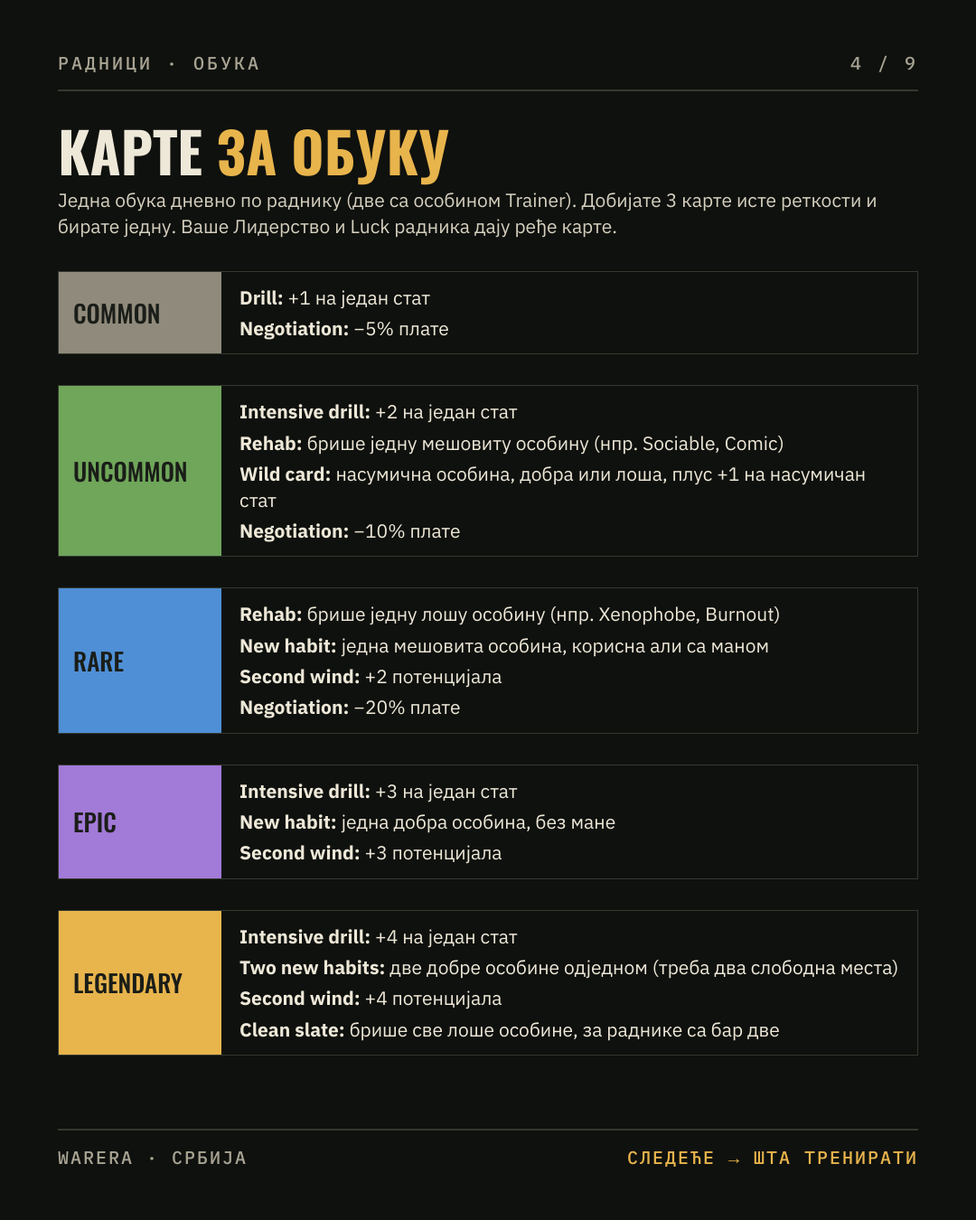
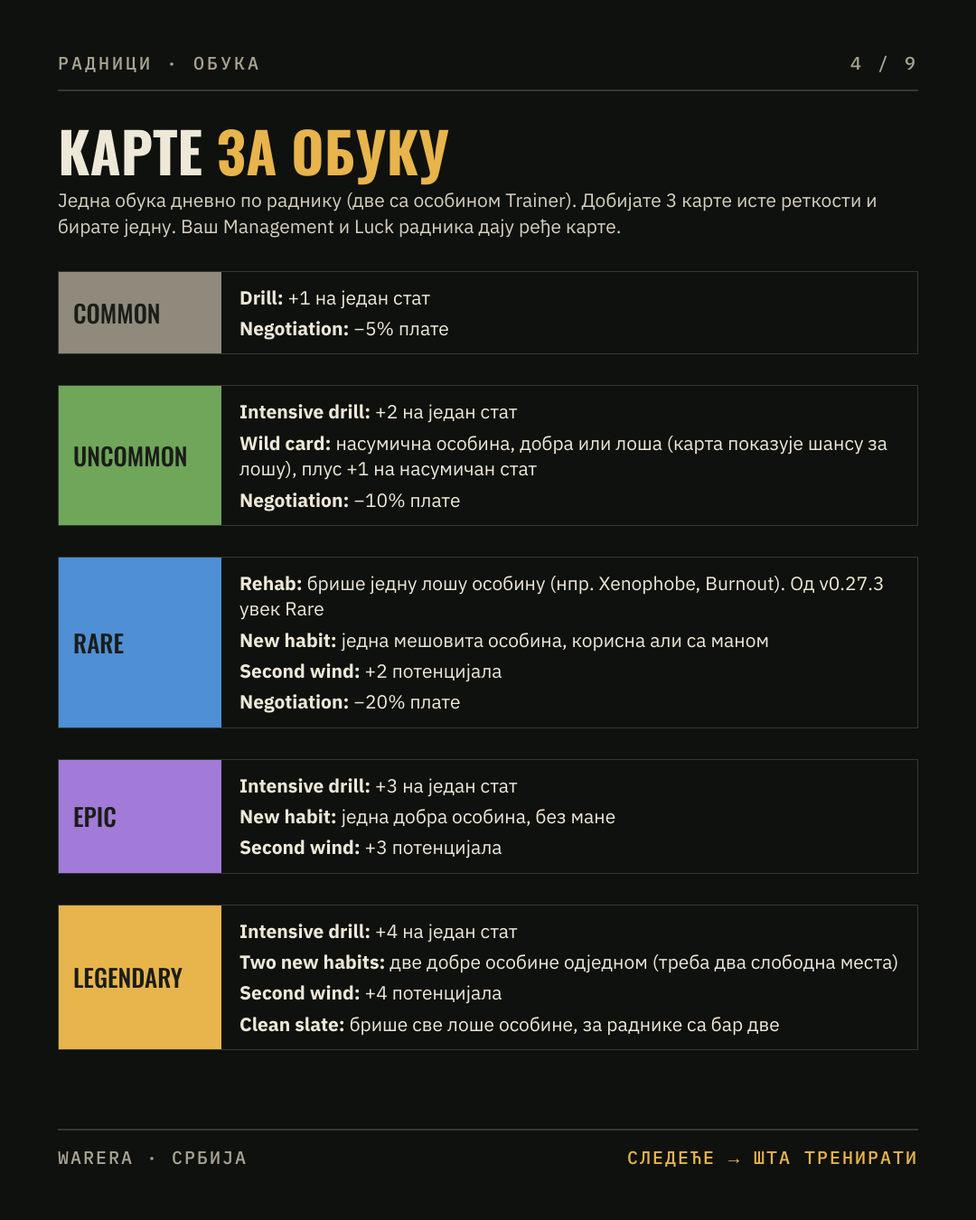
Zakrpa v0.27.3: Liderstvo u Menadžmentu, otkaz bez kazne, 12h za novog radnika
Claude-Session: https://claude.ai/code/session_01L1BRfphHGAoYFinPfNgA1E

diff --git a/clanci/radnici-v027.md b/clanci/radnici-v027.md
@@ -2,14 +2,14 @@
 
 *Прилагођени превод водича „Piraterers Employee Training Guide 2.0” играча **Piraterer**. Аутор је дозволио превод, а оригинал ажурира ако се нешто промени, па га погледајте и тамо:* [**оригинални чланак →**](https://app.warera.io/article/6ade935e2284d0115d0de773)
 
-> Ово је лично мишљење аутора, засновано на тест-серверу и белешкама за закрпу. Нека вам послужи као полазна тачка, а свој стил игре наћи ћете сами.
+> **Ажурирано за закрпу v0.27.3.** Ово је лично мишљење аутора, засновано на тест-серверу и белешкама за закрпу. Нека вам послужи као полазна тачка, а свој стил игре наћи ћете сами.
 
 ---
 
 ## Укратко, ако немате времена
 
 • Запошљавајте **младе раднике са високим потенцијалом** или добрим особинама  
-• На почетку улажите у **Енергију**, па у **Лидерство** (откључава се на нивоу 10). Менаџмент тек кад вам радници ојачају  
+• На почетку улажите у **Енергију**, па у **Менаџмент** (од v0.27.3 у њему је и бивше Лидерство)  
 • Плата се плаћа **сваког сата**: ако на рачуну нема пара за цео сат, тог сата нико не ради  
 • Плату плаћате само за Production стат (почетни + истренирани), **не за бонусе од особина**. Зато су особине које дају производњу најисплативије  
 • При обуци бирајте: **добра особина > Production > Second wind > смањење плате / Luck > Responsibility**  
@@ -19,9 +19,11 @@
 
 ## Нове и прерађене вештине
 
-• **Лидерство (Leadership):** боље карте при обуци и боље шансе у догађајима  
 • **Енергија:** плаћа обуку, запошљавање и рад у сопственим компанијама  
-• **Менаџмент:** исплати се тек кад су вам радници развијени. На почетку улажите у Енергију, а у Лидерство чим достигнете ниво 10
+• **Менаџмент:** +2% производње радника по нивоу, а од v0.27.3 и боље карте при обуци и +2% шансе у догађајима по нивоу  
+• **Лидерство (Leadership)** више не постоји: v0.27.3 га је спојила са Менаџментом и вратила поене. Сви су добили и један бесплатан ресет вештина, без кулдауна
+
+*Ауторова слика испод је из времена пре спајања, па на њој још видите Лидерство.*
 
 ![Вештине](https://media.warera.io/article-images/0097ec6c-077f-4199-9176-c974da0b439c-1792197985235.png)
 
@@ -37,9 +39,11 @@
 **Шта добијате насумично при запошљавању:**
 
 • сваки стат (Production, Responsibility, Luck) од 1 до 4, сви подједнако вероватни  
-• 50% шансе за једну особину  
+• увек тачно једна особина (од v0.27.3)  
 • потенцијал за обуку од 3 до 10: толико пута радника можете да обучите  
 • године од 18 до 45. Радник стари **годину дана сваког дана** и одлази у пензију са 65
+
+**Важно (v0.27.3):** кандидат показује све статове и плату, а **особину и потенцијал видите тек кад га запослите**. Особине типа Specialist сада увек одговарају производу ваше компаније.
 
 **Савет:** тражите младе раднике са високим потенцијалом или добром особином (погледајте тир листу ниже).
 
@@ -63,7 +67,7 @@
 
 • Обука се отвара после сваког дневног ресета, док год радник има потенцијала  
 • Са особином **Trainer** у истој компанији сваки радник се обучава **два пута дневно**  
-• **Ваше Лидерство и Luck радника** повећавају шансу за ретке карте  
+• **Ваш Менаџмент и Luck радника** повећавају шансу за ретке карте  
 • Када кликнете на обуку, добијате **3 карте исте реткости** и бирате једну
 
 ![Прозор за обуку](https://media.warera.io/article-images/f8a17cac-6cad-47a2-85e9-0597ecbaa9f5-1792789419525.png)
@@ -76,12 +80,11 @@
 
 **Uncommon**  
 • *Intensive drill:* +2 на један стат  
-• *Rehab:* брише једну мешовиту особину (нпр. Sociable или Comic)  
-• *Wild card:* насумична особина, добра или лоша, види се тек кад је изаберете, плус +1 на насумичан стат  
+• *Wild card:* насумична особина, добра или лоша, види се тек кад је изаберете, плус +1 на насумичан стат. Карта показује шансу за лошу особину  
 • *Negotiation:* −10% очекиване плате
 
 **Rare**  
-• *Rehab:* брише једну лошу особину (нпр. Xenophobe или Burnout)  
+• *Rehab:* брише једну лошу особину (нпр. Xenophobe или Burnout). Од v0.27.3 увек Rare и брише само лоше  
 • *New habit:* учи једну мешовиту особину, корисну али са манама  
 • *Second wind:* +2 потенцијала, једна обука више од оне коју сте управо потрошили  
 • *Negotiation:* −20% очекиване плате
@@ -117,8 +120,8 @@
 
 **Luck:** 0,1% шансе по одрађеном сату да радник нађе кутију са алатом (Luck 4 = 0,4% по сату). Нема кутија ако радник не ради: компанија је угашена, складиште је пуно или нема новца за плату. Исплати се ако радник ионако нема добре особине за производњу.
 
-**Responsibility:** сваки поен штити **10% губитка задовољства**, до 100% на 10 поена.  
-*Пример:* са Responsibility 4 и −10 задовољства губите 6% производње уместо 10%. Корисно у регионима са високим порезом.
+**Responsibility:** од v0.27.3 сваки поен даје **+3 задовољства** (раније је штитио 10% губитка по поену).  
+*Пример:* Responsibility 4 = +12 задовољства, што покрива порез од 12%. Корисно у регионима са високим порезом.
 
 ---
 
@@ -131,8 +134,8 @@
 1. **Добре особине** (New habit, а Wild card ако сте спремни да ризикујете)  
 2. **Production**  
 3. **Second wind:** више обука, увек добар избор кад нисте сигурни  
-4. **Смањење плате или Luck:** Luck доноси кутије, помаже у обуци и даје боље шансе у догађајима  
-5. **Responsibility:** штит од губитка задовољства у регионима са високим порезом
+4. **Смањење плате или Luck:** Luck доноси кутије, помаже у обуци и даје +4% по поену у догађајима (негде +2%)  
+5. **Responsibility:** +3 задовољства по поену, корисно у регионима са високим порезом
 
 **Изузетак:** што више Production радник има, више се исплати смањење плате уместо још Production-а.
 
@@ -194,11 +197,11 @@
 
 ## Задовољство и отказ
 
-На задовољство утичу догађаји, премештање радника и порез: **1% пореза = −1 задовољства**, односно око −1% производње (потврђено у игри).
+На задовољство утичу догађаји и порез (премештање између ваших компанија је од v0.27.3 бесплатно): **1% пореза = −1 задовољства**, односно око −1% производње (потврђено у игри).
 
 • Сваки поен испод 50 одузима 1% производње, до −50% на нули  
 • **Испод 30 задовољства радник може да да отказ** (по аутору; још непроверено), до 5% шансе по сату на нули  
-• Responsibility смањује и тај ризик  
+• Responsibility подиже задовољство (+3 по поену), па и удаљава од те границе  
 • Отказ стиже **без догађаја** у ком бисте могли да га задржите. Кад оде, нема га
 
 ---
@@ -220,7 +223,10 @@
 • Радници у **матичном региону ваше земље** добијају **+5% производње**, без обзира на националност. Још један разлог да компаније држимо у Србији  
 • Радници добијају **специјализацију: +1% производње дневно** за производ који праве. Ако га пребаците на други производ, креће од 0%, а ако га вратите на стари, наставља где је стао  
 • Прозор за помоћ показује све особине, карте и догађаје (доступан кад радник већ има неку особину)  
-• Раднике можете преместити или отпустити, а са премијумом и преименовати  
+• Раднике можете преместити или отпустити, а са премијумом и преименовати. Премештај између ваших компанија је од v0.27.3 бесплатан  
+• **Early bloomer** је заменио Sprinter: +6 Production до 40. године, затим −2 на сваких 10 година, а са 60 нестаје. Постојећи Sprinter-и су аутоматски пребачени  
+• Карте за обуку сада показују и колико ће се променити плата  
+• Процена профита сада рачуна вредност производа који компанија прави
 • Прозор радне снаге показује доступне обуке и догађаје
 
 ![Прозор радне снаге](https://media.warera.io/article-images/fae8850c-39c0-4afa-8547-1b232fed5b62-1792968448808.png)
@@ -231,7 +237,7 @@
 
 *Додатак наше заједнице, није из Piraterer-овог водича. Сложено по белешкама за v0.27 и правилима изнад.*
 
-Отказ кошта: колеге губе **5 задовољства на 24 сата**, а замена кошта енергију и креће од 0% специјализације. **Изузетак од v0.27.1:** тек запосленог радника отпуштате бесплатно, па лош избор одмах исправите.
+Од v0.27.3 отказ **више не кошта колеге задовољства**. Цена је само замена: енергија, а специјализација креће од 0%. Новог радника можете отпустити тек **12 сати после запошљавања**, а после премештаја између ваших компанија одмах.
 
 **Отпустите радника ако:**
 
@@ -247,9 +253,9 @@
 • има високу специјализацију на свом производу (до +20%)  
 • је близу 65: боље га пустите у пензију, па колега добија бонус
 
-**Пре отказа пробајте карте:** *Negotiation* (−5% до −20% плате), *Rehab* (брише лошу или мешовиту особину) и *Clean slate* (брише све лоше особине одједном).
+**Пре отказа пробајте карте:** *Negotiation* (−5% до −20% плате), *Rehab* (брише једну лошу особину) и *Clean slate* (брише све лоше особине одједном).
 
-**Када:** отпустите тек кад међу кандидатима видите бољег (нови стижу у 00:00 UTC). Не отпуштајте више радника одједном, јер сваки отказ колегама скида задовољство.
+**Када:** отпустите тек кад међу кандидатима видите бољег (нови стижу у 00:00 UTC). Особину и потенцијал видите тек кад радника запослите: ако су лоши, после 12 сати га замените.
 
 ---
 

diff --git a/03-deo-2-2-eko-bild-i-kompanije.md b/03-deo-2-2-eko-bild-i-kompanije.md
@@ -9,10 +9,10 @@
 | Вештина | Пре | После v0.27 |
 | --- | --- | --- |
 | Предузетништво (Entrepreneurship) | Финансирало сопствени рад | **Укинуто**; поени се враћају |
-| Енергија (Energy) | Основа 30 | Основа 100, +10 по нивоу \[ПРОВЕРИТИ\]; плаћа сопствени рад, запошљавање и обуку |
-| Производња (Production) | Сопствени рад основа 10 | Сопствени рад основа 30, +3 по нивоу \[ПРОВЕРИТИ\] |
-| Менаџмент (Management) | Ограничавао колико људи можете запослити | +2% производње запослених по поену; више не ограничава запошљавање |
-| Лидерство (Leadership) | — | **Ново**, откључава се на нивоу 10; повећава вероватноћу ретких карата за обуку и побољшава шансе у догађајима |
+| Енергија (Energy) | Основа 30 | Основа 100, +10 по нивоу; плаћа сопствени рад, запошљавање и обуку |
+| Производња (Production) | Сопствени рад основа 10 | Сопствени рад основа 30, +3 по нивоу |
+| Менаџмент (Management) | Ограничавао колико људи можете запослити | +2% производње запослених по поену; од v0.27.3 и боље карте за обуку и +2% шансе у догађајима по поену; више не ограничава запошљавање |
+| Лидерство (Leadership) | — | Уведено у v0.27, **спојено са Менаџментом** у v0.27.3; поени враћени |
 
 Сви добијају **један бесплатан ресет вештина без кулдауна** да би се прилагодили новом систему. Препоручену расподелу првих 60 поена треба поново урадити за v0.27.
 
@@ -117,7 +117,7 @@
 
 - **Сви добијају једно бесплатно премештање компаније**, намењено враћању компанија кући и подршци финансијама ваше земље.
 - Нормално премештање и даље кошта 5 бетона.
-- Премештање запосленог између ваших компанија даје му −10 задовољства на 7 дана и не може бити отпуштен 24 сата.
+- Премештање запосленог између ваших компанија је од v0.27.3 бесплатно (без губитка задовољства), а после премештаја можете одмах да га отпустите.
 
 **Не мешајте премештање компаније са сопственим кретањем.** И играч има позицију на мапи, али лично путовање (Издржљивост/нафта) не помера компаније, а премештање компаније не помера вас.
 
@@ -144,9 +144,9 @@
 | Атрибут | Опсег / правило |
 | --- | --- |
 | Производња (Production) | 1–4 на почетку (колико производи) |
-| Срећа (Luck) | 1–4 на почетку (шта проналази: кутије са алатом, шансе у догађајима) |
-| Одговорност (Responsibility) | 1–4 на почетку (колико добро подноси лоше вести) |
-| Особине (Traits) | 50% шансе за 1 особину на почетку; укупно 53 особине (нпр. Усамљеник (Loner): +100% када ради сам; Друштвен (Sociable): +25% по колеги) |
+| Срећа (Luck) | 1–4 на почетку (кутије са алатом; од v0.27.3 сваки поен даје +4% у догађајима, негде +2%) |
+| Одговорност (Responsibility) | 1–4 на почетку (од v0.27.3: +3 задовољства по поену) |
+| Особине (Traits) | Увек тачно 1 особина на почетку (v0.27.3); особина и потенцијал се виде тек после запошљавања; Specialist особине одговарају производу компаније; укупно 53 особине (нпр. Усамљеник (Loner): +100% када ради сам; Друштвен (Sociable): +25% по колеги) |
 | Потенцијал за обуку (Training Potential) | 3–10 (колико извлачења за обуку може да прими) |
 | Почетна старост | 18–45 |
 
@@ -159,7 +159,7 @@
 
 **Управљање:** запослене можете премештати између својих компанија; са премијумом их можете и преименовати.
 
-**Отпуштање:** колеге добијају −5 задовољства на 24 сата (од v0.27.1 отказ тек запосленог радника је бесплатан).
+**Отпуштање:** од v0.27.3 отказ више не кошта колеге задовољства. Новог радника можете отпустити тек 12 сати после запошљавања. Кандидати пре запошљавања показују све статове и плату.
 
 **Давање отказа:** занемаривање никада не доводи до отказа. Само Ксенофоб (Xenophobe) који ради са другим националностима може да оде када је незадовољан.
 
@@ -183,7 +183,6 @@
 | Пропуштена плата | смањује задовољство |
 | Порез на доходак | −1 по 1% пореза (потврђено у игри; белешке пре закрпе наводиле су 0,1) |
 | Премештен у другу компанију | −10 на 7 дана |
-| Колега отпуштен | −5 на 24 сата |
 | Битка у његовој регији | −5 |
 
 Задовољство се може подићи догађајима (2.8.11) и дневном бригом менаџера (+5 на 48 сати).
@@ -195,7 +194,7 @@
 - **једно извлачење дневно по запосленом**, за 10 енергије;
 - свако извлачење троши 1 поен Потенцијала за обуку запосленог;
 - **бирате 1 од 3 карте**: појачање статистике, нижа плата, нова или уклоњена особина, или више Потенцијала;
-- Лидерство и Срећа повећавају вероватноћу ретких карата.
+- Менаџмент и Срећа повећавају вероватноћу ретких карата. Карте показују промену плате, а Wild card шансу за лошу особину (v0.27.3). Rehab брише само лоше особине и увек је Rare.
 
 **Препоручена стратегија:** запослени са високим Потенцијалом вреди више од оног са високим почетним статистикама, јер је свако извлачење трајно побољшање. Карта „више Потенцијала" продужава корисни век запосленог.
 
@@ -205,7 +204,7 @@
 
 - 78 догађаја за откривање, неки са наставцима.
 - Око 1 дневно са 3 запослена, никада више од 3 дневно.
-- Шансе видите пре избора; Лидерство, задовољство и Срећа их побољшавају.
+- Шансе видите пре избора; Менаџмент, задовољство и Срећа их побољшавају. Догађај погађа алат и колеге који су били ту кад се појавио.
 - **Игноришите догађај 36 сати** и подразумевана опција се бира уместо вас.
 - Од v0.27.1 догађаји могу да крену одмах после запошљавања (раније после 48 сати). Највише један догађај сваки дневно, и само док се пријављујете бар на сваких 3 дана.
 - Исходи укључују задовољство, бонусе, статистике, особине, кутије са алатом или одлазак запосленог.

diff --git a/00-uvod-i-deo-0.md b/00-uvod-i-deo-0.md
@@ -52,7 +52,7 @@ Oct 20, 2026
 | Област | Пре (v0.26.1) | После (v0.27) | Поглавља |
 | --- | --- | --- | --- |
 | Рад | Тржиште рада: играчи раде за друге играче | Тржиште рада укинуто. Компаније запошљавају NPC запослене; једини начин да радите за другог играча је као **менаџер** | 2.7, 2.8, 2.10, 2.11, 2.12 |
-| Вештине | Предузетништво финансира рад у својој компанији | Предузетништво укинуто (поени враћени); Енергија плаћа сопствени рад, запошљавање и обуку; нова вештина **Лидерство** од нивоа 10; један бесплатан ресет | 2.6, 2.7, 3.3 |
+| Вештине | Предузетништво финансира рад у својој компанији | Предузетништво укинуто (поени враћени); Енергија плаћа сопствени рад, запошљавање и обуку; краткотрајна вештина **Лидерство**, спојена са Менаџментом у v0.27.3 (поени враћени); један бесплатан ресет | 2.6, 2.7, 3.3 |
 | Бонуси производње | Налазишта, специјализација земље, етике, стратешки ресурси | Налазишта искључена, специјализација укинута, етике укинуте; стратешки ресурси доносе приход уместо бонуса производње | 2.10, 2.13, 5.5 |
 | Порези | Порез на доходак, порез на сопствени рад | Порез на доходак на плате запослених + нови порез на менаџере; порез на сопствени рад укинут; порези смањују задовољство запослених | 2.10, 5.5 |
 | Политика | Етике странака | Свака земља бира **тип власти** (7 типова, кулдаун 30 дана) | 3.10, 5.3, 5.5, 5.6 |
@@ -66,7 +66,7 @@ Oct 20, 2026
 Белешке су радна верзија. Проверите ове ставке чим закрпа буде активна, па ажурирајте означене пасусе:
 
 - **Вредности Енергије и Производње.** Белешке кажу Енергија „30 → 100 + 10 по нивоу" и сопствени рад „10 → 30 + 3 по нивоу". Овај водич их тумачи као *основа 100, +10 по нивоу* и *основа 30, +3 по нивоу*.
-- **Лидерство.** Откључава се на нивоу 10, побољшава карте за обуку и шансе у догађајима; тачан ефекат по нивоу није наведен.
+- **Лидерство.** [v0.27.3] Спојено са Менаџментом: Менаџмент сада даје и боље карте за обуку и +2% шансе у догађајима по нивоу. Поени Лидерства су враћени, а сви су добили још један бесплатан ресет вештина, без кулдауна.
 - **Цене Собе за одмор (Break Room).** Белешке показују „10 → 20 челика" (ниво 2) и „20 → 80 челика" (ниво 3). Проверите да ли је то цена по нивоу или кумулативна.
 - **Горња граница задовољства.** Сваки поен удаљен од 50 мења учинак за 1%; максимум (претпоставља се 100, тј. +50%) није наведен.
 - **Нови сетови кандидата.** 10 енергије, затим се цена удвостручује; проверите када се ресетује (вероватно дневно).

diff --git a/04-deo-2-3-proizvodnja-trgovina-prestiz.md b/04-deo-2-3-proizvodnja-trgovina-prestiz.md
@@ -66,7 +66,7 @@
 - **Сваки 1% пореза на доходак кошта запослене 1 задовољство.** Потврђено у игри после изласка закрпе; белешке пре закрпе наводиле су 0,1.
 - **Освојене регије:** изворни власник и даље добија 10% пореза на доходак.
 
-**Препоручена политика за Владу и Конгрес:** порез на доходак сада има директан трошак у производњи: при порезу од 10% сваки запослени у земљи губи 10 задовољства, тј. око 10% учинка. Одговорност (сваки поен штити 10% губитка задовољства) и особина Лојалан (Loyal) то ублажавају. Одредите га као баланс између ризнице и производње грађана.
+**Препоручена политика за Владу и Конгрес:** порез на доходак сада има директан трошак у производњи: при порезу од 10% сваки запослени у земљи губи 10 задовољства, тј. око 10% учинка. Одговорност (од v0.27.3 +3 задовољства по поену) и особина Лојалан (Loyal) то ублажавају. Одредите га као баланс између ризнице и производње грађана.
 
 #### 2.10.4 Лојалност запослених и узајамно запошљавање (застарело)
 
@@ -92,7 +92,7 @@
 - **Обучавајте свакодневно.** Једно извлачење по запосленом дневно; то је главни начин да их побољшате.
 - **Одговарајте на догађаје у року од 36 сати.** У супротном се подразумевана опција бира уместо вас.
 - **Не дозволите да се складиште напуни.** Пуно складиште зауставља производњу и смањује задовољство.
-- **Не отпуштајте импулсивно.** Колеге губе 5 задовољства на 24 сата (од v0.27.1 отказ тек запосленог радника је бесплатан).
+- **Отпуштајте по плану.** Отказ више не кошта колеге (v0.27.3), али новог радника не можете отпустити 12 сати, а замена креће од 0% специјализације.
 - **Не премештајте запослене импулсивно.** Премештени запослени губи 10 задовољства на 7 дана.
 - **Пазите на порез.** Сваки 1% пореза на доходак кошта 1 задовољство, па 10% пореза значи око −10% учинка.
 - **Планирајте пензионисање.** Запослени старе 1 годину дневно и траже пензију са 65.
@@ -236,7 +236,7 @@
 
 Укупан XP током века налога прати се одвојено од тренутног нивоа, тако да Престиж не брише оно што сте укупно зарадили.
 
-**\[v0.27\] Напомена:** Лидерство се откључава на нивоу 10, тако да Престиж који вас спусти испод 10 привремено га закључава.
+**\[v0.27.3\] Напомена:** Лидерство више не постоји (спојено са Менаџментом), па га Престиж више не закључава.
 
 #### 2.16.3 Трајни XP бонус
 

diff --git a/12-deo-6-alati-cekliste-scenariji.md b/12-deo-6-alati-cekliste-scenariji.md
@@ -191,12 +191,12 @@
 | Догађај | \[v0.27\] Мала прича у вези са запосленим; ви бирате реакцију |
 | Тип власти | \[v0.27\] Облик власти у земљи (7 типова); замењује етике странака |
 | Задовољство | \[v0.27\] Расположење запосленог; сваки поен удаљености од 50 мења учинак за 1% |
-| Лидерство | \[v0.27\] Вештина откључана на нивоу 10; побољшава карте за обуку и шансе у догађајима |
+| Лидерство | \[v0.27\] Краткотрајна вештина; спојена са Менаџментом у v0.27.3 |
 | Менаџер | \[v0.27\] Играч запослен да води компанију другог играча; једини начин да радите за другог играча |
 | Порез на менаџере | \[v0.27\] Порез на плату менаџера, о коме гласа Конгрес |
 | Алат | \[v0.27\] Опрема за запосленог која појачава производњу (+3% до +65%) |
 | Обука | \[v0.27\] Дневно извлачење карте које побољшава запосленог |
-| Еко | Билд фокусиран на Енергију, Производњу, Компаније, Менаџмент и Лидерство |
+| Еко | Билд фокусиран на Енергију, Производњу, Компаније и Менаџмент |
 | Борбени / ратни билд | Билд фокусиран на штету и одрживост у борби |
 | Рескил | Ресетовање и прерасподела поена вештина |
 | Престиж | Повратак са нивоа 50 на нижи ниво, у замену за трајни XP бонус и поен Престижа |

diff --git a/09-deo-4-vj-turniri-kuldauni.md b/09-deo-4-vj-turniri-kuldauni.md
@@ -154,8 +154,8 @@
 | **Обука** \[v0.27\] | 1 извлачење по запосленом дневно | 10 енергије по извлачењу |
 | **Догађај запосленог** \[v0.27\] | подразумевана опција се бира после 36 сати | Одговорите на време |
 | **Уговор менаџера** \[v0.27\] | закључавање 24 сата после запошљавања | Ниједна страна не може да га раскине |
-| **Премештен запослени** \[v0.27\] | −10 задовољства на 7 дана; не може бити отпуштен 24 сата | Не премештајте запослене импулсивно |
-| **Отпуштен колега** \[v0.27\] | −5 задовољства колегама на 24 сата; тек запослени се отпушта бесплатно (v0.27.1) | Не отпуштајте импулсивно |
+| **Премештен запослени** \[v0.27.3\] | Бесплатно; може одмах да се отпусти | — |
+| **Нов радник** \[v0.27.3\] | Може да се отпусти тек 12 сати после запошљавања; отказ више не кошта колеге задовољства | Проверите особину и потенцијал после запошљавања |
 
 #### 4.4.2 Кулдауни Војне јединице
 

diff --git a/05-deo-3-1-mapa-bild-statistike.md b/05-deo-3-1-mapa-bild-statistike.md
@@ -116,7 +116,7 @@
 
 #### 3.2.1 Препоручени алат
 
-Алат који заједница сада препоручује за рачунање штете и билдова је SpyWarEra Build Optimizer. Раније је препоручиван intel.warera.wiki/builder; он више није референтни алат. **\[v0.27\]** Проверите да ли је оптимизатор ажуриран за нове вештине (без Предузетништва, нова Енергија и Лидерство) пре него што верујете његовом еко делу.
+Алат који заједница сада препоручује за рачунање штете и билдова је SpyWarEra Build Optimizer. Раније је препоручиван intel.warera.wiki/builder; он више није референтни алат. **\[v0.27\]** Проверите да ли је оптимизатор ажуриран за нове вештине (без Предузетништва, нова Енергија, Лидерство спојено са Менаџментом) пре него што верујете његовом еко делу.
 
 #### 3.2.2 Попуњавање параметара
 
